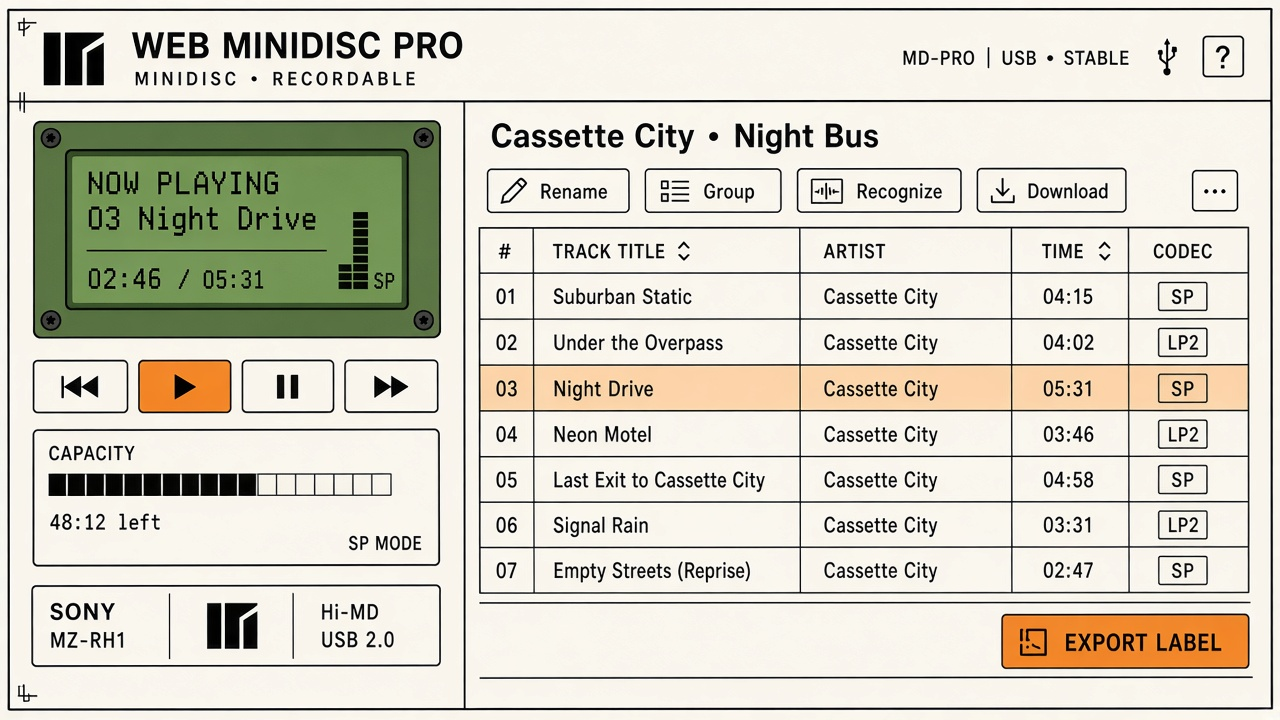
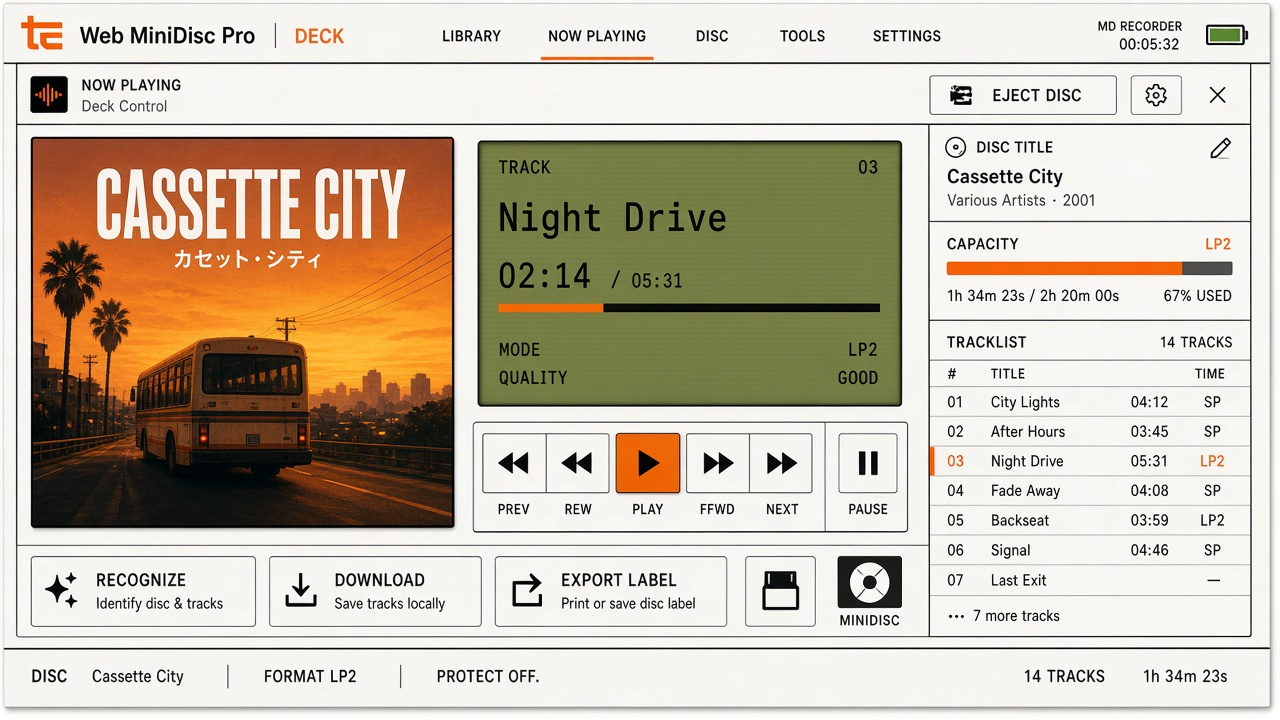
Revise TE mockups for real MiniDisc labels and Downtify flows
Replace CD-like circular labels with main/edge/box MiniDisc stickers,
feature album art on the deck, and add Downtify library browse plus
background playlist download screens.

diff --git a/mockups/te-overhaul/index.html b/mockups/te-overhaul/index.html
@@ -18,32 +18,33 @@
         <p class="kicker">Interface study · series 01 · high-fidelity visuals</p>
         <h1>web <span>minidisc</span> pro</h1>
         <p class="lede">
-          Teenage Engineering–influenced industrial UI direction for a Web MiniDisc Pro overhaul.
-          Core fork workflows plus Label Studio for disc/title export and printable faces.
+          Teenage Engineering–influenced industrial UI direction. Correct MiniDisc cartridge geometry,
+          printable main / edge / box labels, album art on the deck, plus Downtify library browse and
+          background playlist downloads.
         </p>
       </header>
 
       <ol class="frames">
         <li>
           <figure>
-            <img src="./visuals/01-connect.jpg" alt="Connect screen mockup" width="1280" height="720" />
+            <img src="./visuals/01-connect.jpg" alt="Connect screen with MiniDisc cartridge" width="1280" height="720" />
             <figcaption>
               <span class="num">01</span>
               <div>
                 <strong>Connect</strong>
-                <p>NetMD USB, Remote NetMD, HiMD — product chassis welcome.</p>
+                <p>NetMD / Remote / HiMD with a real MiniDisc cartridge, not a CD.</p>
               </div>
             </figcaption>
           </figure>
         </li>
         <li>
           <figure>
-            <img src="./visuals/02-deck.jpg" alt="Deck tracklist mockup" width="1280" height="720" />
+            <img src="./visuals/02-deck.jpg" alt="Deck now-playing with large album art" width="1280" height="720" />
             <figcaption>
               <span class="num">02</span>
               <div>
-                <strong>Deck</strong>
-                <p>LCD transport, grouped tracks, capacity, recognize / download.</p>
+                <strong>Deck · now playing</strong>
+                <p>Album art as a primary surface beside the LCD, transport, and tracklist.</p>
               </div>
             </figcaption>
           </figure>
@@ -62,43 +63,43 @@
         </li>
         <li>
           <figure>
-            <img src="./visuals/04-label-album.jpg" alt="Label Studio fixed album mockup" width="1280" height="720" />
+            <img src="./visuals/04-label-studio.jpg" alt="Label Studio with MiniDisc main edge and box labels" width="1280" height="720" />
             <figcaption>
               <span class="num">04</span>
               <div>
                 <strong>Label Studio · fixed album</strong>
-                <p>Cover-art face, spine + TOC export pack.</p>
+                <p>Main cartridge label (dog-ear), edge strip, and case/box label.</p>
               </div>
             </figcaption>
           </figure>
         </li>
         <li>
           <figure>
-            <img src="./visuals/05-label-mix.jpg" alt="Label Studio mix disc mockup" width="1280" height="720" />
+            <img src="./visuals/05-label-mix.jpg" alt="Label Studio mix disc generated labels" width="1280" height="720" />
             <figcaption>
               <span class="num">05</span>
               <div>
                 <strong>Label Studio · mix disc</strong>
-                <p>Generated geometric artwork from titles, codecs, energy.</p>
+                <p>Generated artwork mapped onto main, edge, and box MiniDisc labels.</p>
               </div>
             </figcaption>
           </figure>
         </li>
         <li>
           <figure>
-            <img src="./visuals/06-library.jpg" alt="Disc library mockup" width="1280" height="720" />
+            <img src="./visuals/06-library.jpg" alt="Disc archive library with MiniDisc cartridges" width="1280" height="720" />
             <figcaption>
               <span class="num">06</span>
               <div>
-                <strong>Library</strong>
-                <p>Known discs, archives, recognition and Downtify hooks.</p>
+                <strong>Disc archives</strong>
+                <p>Known MiniDiscs with cartridge face previews and label status.</p>
               </div>
             </figcaption>
           </figure>
         </li>
         <li>
           <figure>
-            <img src="./visuals/07-system.jpg" alt="System and factory mockup" width="1280" height="720" />
+            <img src="./visuals/07-system.jpg" alt="System and factory settings" width="1280" height="720" />
             <figcaption>
               <span class="num">07</span>
               <div>
@@ -110,12 +111,36 @@
         </li>
         <li>
           <figure>
-            <img src="./visuals/08-label-export-detail.jpg" alt="Label export deliverables mockup" width="1280" height="720" />
+            <img src="./visuals/08-label-export-detail.jpg" alt="Printed MiniDisc label pack flat lay" width="1280" height="720" />
             <figcaption>
               <span class="num">08</span>
               <div>
                 <strong>Export pack</strong>
-                <p>Physical face label, spine strip, TOC sheet deliverables.</p>
+                <p>Physical main label, edge strip, and MiniDisc box label deliverables.</p>
+              </div>
+            </figcaption>
+          </figure>
+        </li>
+        <li>
+          <figure>
+            <img src="./visuals/09-downtify-library.jpg" alt="Downtify music library browser" width="1280" height="720" />
+            <figcaption>
+              <span class="num">09</span>
+              <div>
+                <strong>Downtify · music library</strong>
+                <p>Browse albums / artists / playlists / tracks, select, send to encode.</p>
+              </div>
+            </figcaption>
+          </figure>
+        </li>
+        <li>
+          <figure>
+            <img src="./visuals/10-downtify-playlist.jpg" alt="Downtify add playlist background download queue" width="1280" height="720" />
+            <figcaption>
+              <span class="num">10</span>
+              <div>
+                <strong>Downtify · add playlist</strong>
+                <p>Queue Spotify/YouTube playlists for embedded background download.</p>
               </div>
             </figcaption>
           </figure>

diff --git a/mockups/te-overhaul/README.md b/mockups/te-overhaul/README.md
@@ -1,26 +1,35 @@
 # Web MiniDisc Pro — TE Overhaul Visuals
 
-High-fidelity visual study for a Web MiniDisc Pro interface overhaul, influenced by teenage engineering’s industrial product language: chassis framing, orange status accents, monospace instrument labels, LCD/hardware controls, and sparse modular panels.
+High-fidelity visual study for a Web MiniDisc Pro interface overhaul, influenced by teenage engineering’s industrial product language.
 
 Open `index.html` for a static gallery, or browse `visuals/` directly.
+
+## Corrections in this series
+
+- **MiniDisc, not CD** — cartridge shells with shutters; rectangular face stickers with dog-ear cut
+- **Print pack** — main disc label, edge/index strip, MiniDisc box/case label
+- **Deck** — album art is a primary now-playing surface
+- **Fork features** — Downtify music library browse + background playlist download queue
 
 ## Frames
 
 | # | File | Screen |
 | --- | --- | --- |
-| 01 | `visuals/01-connect.jpg` | Connect — NetMD / Remote / HiMD |
-| 02 | `visuals/02-deck.jpg` | Deck — tracks, transport, capacity |
+| 01 | `visuals/01-connect.jpg` | Connect — NetMD / Remote / HiMD + MD cartridge |
+| 02 | `visuals/02-deck.jpg` | Deck — large album art, LCD, tracklist |
 | 03 | `visuals/03-transfer.jpg` | Transfer — encode queue, SP/LP2/LP4 |
-| 04 | `visuals/04-label-album.jpg` | Label Studio — fixed album + cover art |
-| 05 | `visuals/05-label-mix.jpg` | Label Studio — generated mix-disc art |
-| 06 | `visuals/06-library.jpg` | Library — known discs & archives |
+| 04 | `visuals/04-label-studio.jpg` | Label Studio — main / edge / box (album art) |
+| 05 | `visuals/05-label-mix.jpg` | Label Studio — generated mix-disc labels |
+| 06 | `visuals/06-library.jpg` | Disc archives — known MiniDiscs |
 | 07 | `visuals/07-system.jpg` | System — prefs, encoders, factory tools |
-| 08 | `visuals/08-label-export-detail.jpg` | Export pack — face, spine, TOC |
+| 08 | `visuals/08-label-export-detail.jpg` | Export pack flat-lay |
+| 09 | `visuals/09-downtify-library.jpg` | Downtify — browse music library |
+| 10 | `visuals/10-downtify-playlist.jpg` | Downtify — add playlist / background queue |
 
 ## Design notes
 
-- **Palette:** warm chassis `#F7F5F0` / workshop `#EBE8E2`, ink `#111`, TE orange `#FF4D00`, LCD olive
-- **Type:** geometric grotesk display + monospace labels
-- **New capability called out:** Label Studio exports disc contents/titles into printable graphical labels — cover art for fixed albums, generative faces for mixes
+- **Palette:** chassis `#F7F5F0` / workshop `#EBE8E2`, ink `#111`, TE orange `#FF4D00`, LCD olive
+- **Labels:** main ≈ 36×53 mm dog-ear sticker on cartridge; edge ≈ 59×3.75 mm strip; box/case front for the MD shell case
+- **Downtify:** mirrors the fork’s embedded `/downtify/` library (albums/artists/playlists/tracks) and URL queue for background downloads before encode-to-disc
 
 These are **visual mockups only** (not wired into the React app).
